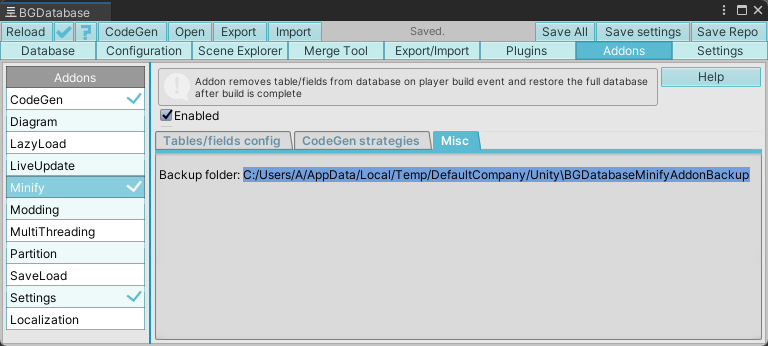
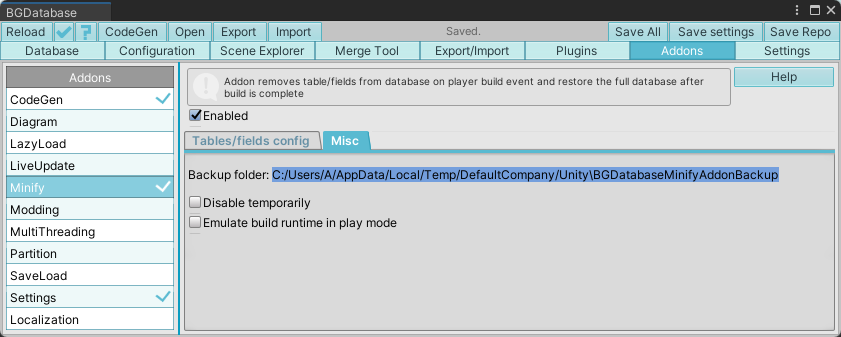
minify addon docs update

Changed region(s): [[0.0, 0.0, 1.0, 1.0]]

diff --git a/BGDatabase/Addons/Minify/index.html b/BGDatabase/Addons/Minify/index.html
@@ -343,48 +343,13 @@
 
 <h4>Detecting accidental access to removed tables or fields</h4>
 <p>
-    When you are running your game in Unity Editor, you have access to the full database,
-    so if you accidentally access table/fields, marked for exclusion, there will be no error.
-    However, when you build and run your game outside of Unity Editor, an exception will be thrown,
-    because tables or fields were removed from the database.
-    Unfortunately, there is no way to detect such accidental access to excluded tables/fields if you use <a href="../../API">basic API</a>,
-    but in case of <a href="../../CodeGeneration">code generation</a>, we can take some actions to detect such invalid access.
-    The following actions available:
+    If you want to detect accidental access to disabled tables and fields in runtime, toggle on "Emulate build runtime in play mode" parameter.
+    Once you enter play mode in Unity Editor, disabled tables/fields will be removed from database
 </p>
-<table class="contentTable">
-    <tr>
-        <th>
-            Name
-        </th>
-        <th>
-            Description
-        </th>
-    </tr>
-    <tr>
-        <td>Skip Disabled</td>
-        <td>no code will be generated for excluded tables/fields, so you won't be able to access them via generated classes.</td>
-    </tr>
-    <tr>
-        <td>Surround with &#35;if UNITY_EDITOR</td>
-        <td>code for excluded tables/fields will be surrounded with <code>UNITY_EDITOR</code> directive,
-            so it works well inside Unity Editor, but if you accidentally access this code from runtime assembly, compilation error occurs
-            during player build process. This option is effective for <a href="../../CodeGeneration/ExtensionClasses">extension classes</a> and
-            <a href="../../CodeGeneration/MonoBehaviourClasses">MonoBehaviour classes</a> only.
-        </td>
-    </tr>
-    <tr>
-        <td>Throw exception </td>
-        <td>exception is thrown if you access excluded table or field during playmode is on</td>
-    </tr>
-    <tr>
-        <td>Log warning</td>
-        <td>warning is printed to the console if you access excluded table or field during playmode is on</td>
-    </tr>
-    <tr>
-        <td>Log debug</td>
-        <td>debug message is printed to the console if you access excluded table or field during playmode is on</td>
-    </tr>
-</table>
+
+<div class="bg-image">
+    <a href="../../../images/BGDatabase/MinifyAddon3.png"><img style="width: 200px" src="../../../images/BGDatabase/MinifyAddon3.png"></a>
+</div>
             </div>
             
 

diff --git a/src/templates/BGDatabase/Addons/Minify/index.html b/src/templates/BGDatabase/Addons/Minify/index.html
@@ -26,45 +26,10 @@
 
 <h4>Detecting accidental access to removed tables or fields</h4>
 <p>
-    When you are running your game in Unity Editor, you have access to the full database,
-    so if you accidentally access table/fields, marked for exclusion, there will be no error.
-    However, when you build and run your game outside of Unity Editor, an exception will be thrown,
-    because tables or fields were removed from the database.
-    Unfortunately, there is no way to detect such accidental access to excluded tables/fields if you use <a href="../../API">basic API</a>,
-    but in case of <a href="../../CodeGeneration">code generation</a>, we can take some actions to detect such invalid access.
-    The following actions available:
+    If you want to detect accidental access to disabled tables and fields in runtime, toggle on "Emulate build runtime in play mode" parameter.
+    Once you enter play mode in Unity Editor, disabled tables/fields will be removed from database
 </p>
-<table class="contentTable">
-    <tr>
-        <th>
-            Name
-        </th>
-        <th>
-            Description
-        </th>
-    </tr>
-    <tr>
-        <td>Skip Disabled</td>
-        <td>no code will be generated for excluded tables/fields, so you won't be able to access them via generated classes.</td>
-    </tr>
-    <tr>
-        <td>Surround with &#35;if UNITY_EDITOR</td>
-        <td>code for excluded tables/fields will be surrounded with <code>UNITY_EDITOR</code> directive,
-            so it works well inside Unity Editor, but if you accidentally access this code from runtime assembly, compilation error occurs
-            during player build process. This option is effective for <a href="../../CodeGeneration/ExtensionClasses">extension classes</a> and
-            <a href="../../CodeGeneration/MonoBehaviourClasses">MonoBehaviour classes</a> only.
-        </td>
-    </tr>
-    <tr>
-        <td>Throw exception </td>
-        <td>exception is thrown if you access excluded table or field during playmode is on</td>
-    </tr>
-    <tr>
-        <td>Log warning</td>
-        <td>warning is printed to the console if you access excluded table or field during playmode is on</td>
-    </tr>
-    <tr>
-        <td>Log debug</td>
-        <td>debug message is printed to the console if you access excluded table or field during playmode is on</td>
-    </tr>
-</table>
+
+<div class="bg-image">
+    <a href="#path images/BGDatabase/MinifyAddon3.png"><img style="width: 200px" src="#path images/BGDatabase/MinifyAddon3.png"></a>
+</div>
